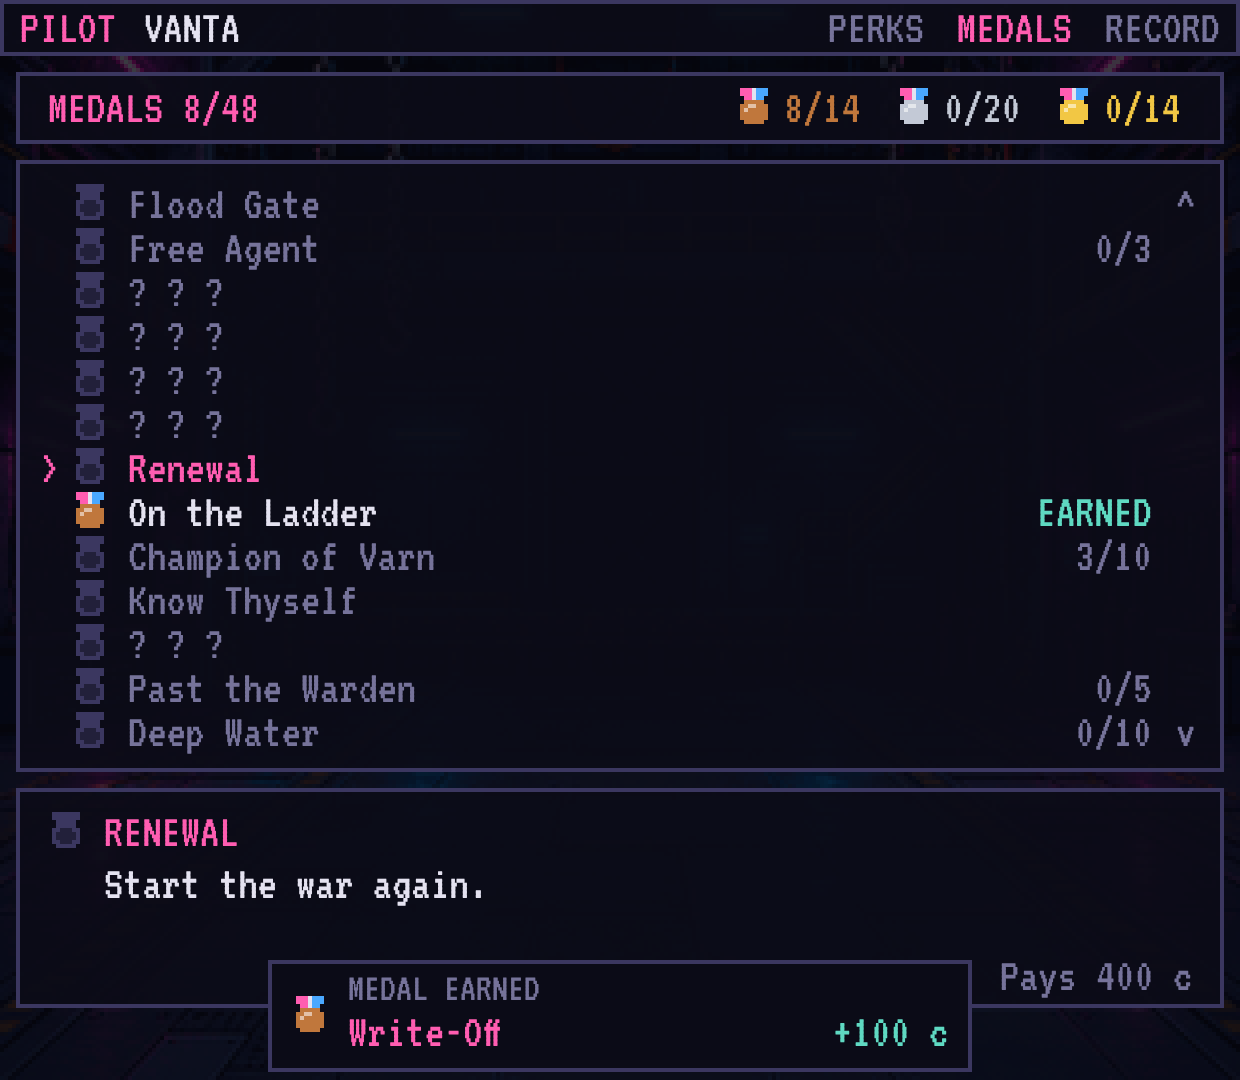
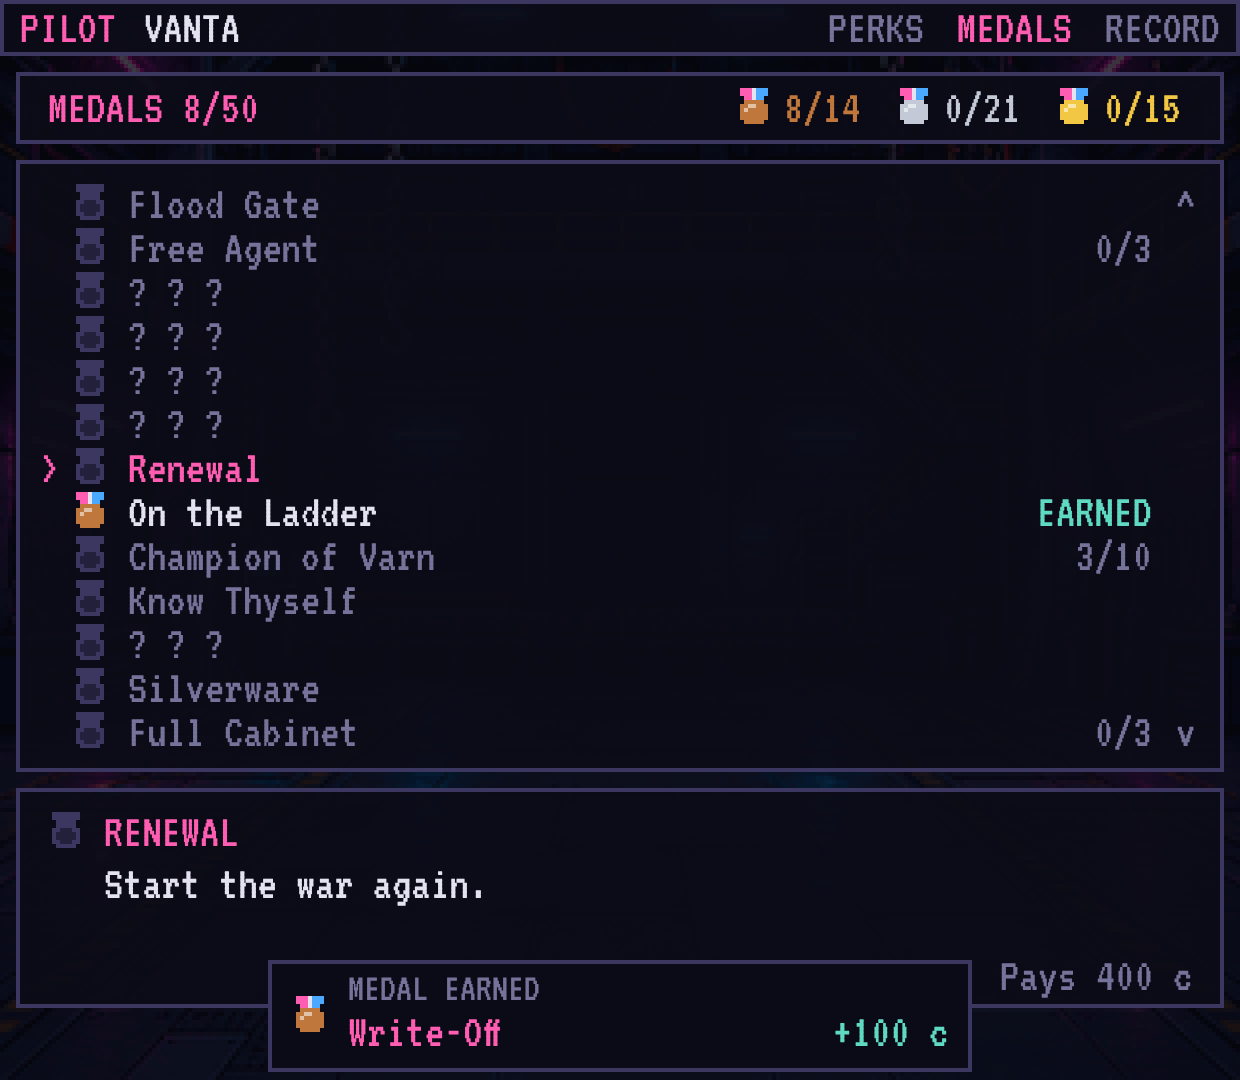
Arena cups: three of the ladder back to back, three cups, a purse each and two medals
Claude-Session: https://claude.ai/code/session_01D72L5UjxxzTBcVetS4xsP3

diff --git a/tests/ui/cups.test.ts b/tests/ui/cups.test.ts
@@ -1,0 +1,92 @@
+import { chooseAutoPlayerAction, runBattle } from '../../src/core/ai';
+import { CUPS, cupMission, cupOpen, cupPurse, cupWon, recordCupWin } from '../../src/core/arena';
+import { isValidState } from '../../src/core/game';
+import { playMission } from '../../src/core/mission';
+import { takesWingman } from '../../src/core/wingman';
+import { ALL_ENEMIES, ARENA } from '../../src/content/arena';
+import { CATALOG } from '../../src/content/parts';
+import { REFERENCE_BUILDS } from '../../src/content/referenceBuilds';
+import { STRINGS } from '../../src/content/strings';
+import { battleTrack } from '../../src/ui/soundtrack';
+import { done, finishMission, fresh, ids, inHub, press, savedGame, select, snap, strong } from '../helpers/app';
+
+const A = STRINGS.arena;
+const text = (id: string) => ({ client: A.client, win: A.win, title: A.cups.names[id], briefing: A.cups.briefing });
+const at = (arenaRank: number) => ({ ...strong(done('intro-1', 'intro-2')), arenaRank });
+const [bronze, silver, gold] = CUPS;
+
+describe('the arena cups', () => {
+  test('are three, each three of the ladder back to back, each opening to a pilot who has beaten its three', () => {
+    expect(CUPS.map((c) => c.id)).toEqual(['cup-bronze', 'cup-silver', 'cup-gold']);
+    expect(CUPS.map((c) => c.ranks)).toEqual([[1, 2, 3], [5, 6, 7], [8, 9, 10]]);
+    expect([2, 3, 6, 7, 9, 10].map((rank) => CUPS.map((c) => cupOpen(at(rank), c)))).toEqual([
+      [false, false, false], [true, false, false], [true, false, false], [true, true, false], [true, true, false], [true, true, true],
+    ]);
+    for (const cup of CUPS) {
+      const m = cupMission(at(10), cup, ARENA, text(cup.id));
+      expect(m.battles.map((b) => b.enemies)).toEqual(cup.ranks.map((rank) => [`arena-${rank}`]));
+      expect(m.battles.every((b) => b.background === 'bg-arena')).toBe(true);
+      const mean = cup.ranks.reduce((sum, rank) => sum + ARENA[rank - 1].scale, 0) / 3;
+      expect(m.scale).toBeCloseTo(mean * cup.tune, 2);
+      expect(takesWingman(m)).toBe(false);
+      expect(battleTrack(m, 0, ALL_ENEMIES)).toBe('arena');
+      for (const line of m.briefing) expect(line.length).toBeLessThanOrEqual(2 * 59);
+    }
+  });
+
+  test('pay the purse once and a quarter after, and are kept on record in a save', () => {
+    const before = at(3);
+    expect(cupPurse(before, bronze)).toBe(2500);
+    const won = recordCupWin(before, 'cup-bronze');
+    expect(cupWon(won, bronze)).toBe(true);
+    expect(cupPurse(won, bronze)).toBe(625);
+    expect(recordCupWin(won, 'cup-bronze')).toBe(won);
+    expect(isValidState(won, CATALOG)).toBe(true);
+    expect(isValidState({ ...won, cups: [5] }, CATALOG)).toBe(false);
+    expect(cupWon(fresh(), gold)).toBe(false);
+  });
+
+  test.each([['cup-bronze', 'tier2'], ['cup-silver', 'tier4'], ['cup-gold', 'tier6']])('%s can be won with %s, and not as a matter of course', (id, build) => {
+    const cup = CUPS.find((c) => c.id === id)!;
+    const m = cupMission(at(10), cup, ARENA, text(id));
+    let wins = 0;
+    for (let seed = 1; seed <= 12; seed++) {
+      const end = playMission(REFERENCE_BUILDS[build], m, ALL_ENEMIES, CATALOG, seed * 7919, (s) => runBattle(s, CATALOG, chooseAutoPlayerAction), { enemyScale: m.scale });
+      if (end.outcome === 'victory') wins += 1;
+    }
+    expect(wins / 12).toBeGreaterThanOrEqual(0.25);
+  });
+});
+
+describe('a cup in the arena', () => {
+  test('is listed under the mirror match, locked until its three are beaten', () => {
+    const { app } = inHub(at(3));
+    select(app, 'arena');
+    expect(ids(app).slice(-3)).toEqual(['cup-bronze', 'cup-silver', 'cup-gold']);
+    expect(snap(app).menu.items.slice(-3).map((i) => [i.enabled, i.note])).toEqual([[true, '2500'], [false, A.locked], [false, A.locked]]);
+    select(app, 'cup-bronze');
+    expect(snap(app)).toMatchObject({ screen: 'briefing', briefing: { mission: 'cup-bronze', reward: 2500 } });
+    expect(ids(app)).toEqual(['accept', 'back']);
+    press(app, 'cancel');
+    expect(snap(app).screen).toBe('arena');
+    expect(snap(app).menu.items[snap(app).menu.cursor].id).toBe('cup-bronze');
+  });
+
+  test('is three battles; winning it pays the purse, puts it on record and earns the medal; the rank on the ladder does not move', () => {
+    const { app, store } = inHub(at(3));
+    const credits = snap(app).credits;
+    select(app, 'arena');
+    select(app, 'cup-bronze');
+    select(app, 'accept');
+    expect(snap(app).battle).toMatchObject({ index: 0, of: 3, enemies: ['arena-1'] });
+    finishMission(app);
+    expect(snap(app).settlement).toMatchObject({ won: true, reward: 2500 });
+    expect(savedGame(store)).toMatchObject({ cups: ['cup-bronze'], arenaRank: 3 });
+    expect(savedGame(store).medals).toContain('cup');
+    expect(savedGame(store).credits).toBeGreaterThan(credits);
+    press(app, 'confirm');
+    app.go('arena');
+    expect((snap(app).arena as unknown as { cups: string[] }).cups).toEqual(['cup-bronze']);
+    expect(snap(app).menu.items.find((i) => i.id === 'cup-bronze')!.note).toBe('625');
+  });
+});

diff --git a/src/ui/arenaScreen.ts b/src/ui/arenaScreen.ts
@@ -1,4 +1,4 @@
-import { ARENA_RANKS, CHAMPION_RANK, arenaPurse, checkChallenge, mirrorEnemy, mirrorOpen, mirrorPurse, shownRanks } from '../core/arena';
+import { ARENA_RANKS, CHAMPION_RANK, CUPS, arenaPurse, checkChallenge, cupOpen, cupPurse, cupWon, mirrorEnemy, mirrorOpen, mirrorPurse, shownRanks } from '../core/arena';
 import { ARENA, ARENA_ENEMIES } from '../content/arena';
 import { STRINGS } from '../content/strings';
 import type { InputAction } from '../platform/input';
@@ -36,6 +36,8 @@ export class ArenaScreen implements Screen {
         note: String(arenaPurse(game, o)),
       })),
       { id: MIRROR, label: A.mirror.title, enabled: mirrorOpen(game), note: mirrorOpen(game) ? String(mirrorPurse(game)) : A.locked },
+      // The three cups, under everything else: each opens to a pilot who has beaten its three on the ladder.
+      ...CUPS.map((cup) => ({ id: cup.id, label: A.cups.names[cup.id], enabled: cupOpen(game, cup), note: cupOpen(game, cup) ? String(cupPurse(game, cup)) : A.locked })),
     ];
     // The cursor starts on the next opponent, or on the last one once there is nobody left to beat.
     const index = items.findIndex((item) => item.id === at);
@@ -44,7 +46,12 @@ export class ArenaScreen implements Screen {
 
   /** The opponent under the cursor; none while it is on the mirror match. */
   private get opponent() {
-    return this.list.selected?.id === MIRROR ? undefined : ARENA[this.list.cursor];
+    return this.list.selected?.id.startsWith('rank-') ? ARENA[this.list.cursor] : undefined;
+  }
+
+  /** The cup under the cursor, if it is on one. */
+  private get cup() {
+    return CUPS.find((cup) => cup.id === this.list.selected?.id);
   }
 
   update(dtMs: number): void {
@@ -57,12 +64,13 @@ export class ArenaScreen implements Screen {
     else if (action === 'cancel') this.app.go('hub');
     else if (action === 'confirm' && this.list.selected?.enabled) {
       if (this.opponent) this.app.openArenaBriefing(this.opponent.rank);
+      else if (this.cup) this.app.openCupBriefing(this.cup.id);
       else this.app.openMirrorBriefing();
     }
   }
 
   view(): ScreenView {
-    return { menu: { items: this.list.items, cursor: this.list.cursor }, arena: { rank: this.app.game!.arenaRank, of: this.shown } };
+    return { menu: { items: this.list.items, cursor: this.list.cursor }, arena: { rank: this.app.game!.arenaRank, of: this.shown, cups: this.app.game!.cups ?? [] } };
   }
 
   draw(ctx: CanvasRenderingContext2D): void {
@@ -75,7 +83,9 @@ export class ArenaScreen implements Screen {
 
     // The selected opponent's mech, facing left towards the list. For the mirror match, the pilot's own in the house paint.
     const o = this.opponent;
-    const shown = o ? ARENA_ENEMIES[o.enemy] : mirrorEnemy(game, A.mirror.name);
+    const cup = this.cup;
+    // For a cup, the last of its three: the one the purse has to be taken from.
+    const shown = o ? ARENA_ENEMIES[o.enemy] : cup ? ARENA_ENEMIES[ARENA[cup.ranks[2] - 1].enemy] : mirrorEnemy(game, A.mirror.name);
     ctx.save();
     ctx.translate(LOGICAL_W + 6, 18);
     ctx.scale(-1, 1);
@@ -91,13 +101,16 @@ export class ArenaScreen implements Screen {
     drawList(ctx, this.list, 10, 32, 134, ROWS);
 
     drawPanel(ctx, 4, 184, LOGICAL_W - 8, 82);
-    const state = !o ? (this.list.selected?.enabled ? A.next : A.locked)
+    const state = cup ? (!cupOpen(game, cup) ? A.locked : cupWon(game, cup) ? A.cups.won : A.cups.open)
+      : !o ? (this.list.selected?.enabled ? A.next : A.locked)
       : o.rank <= game.arenaRank ? A.beaten : o.rank === game.arenaRank + 1 ? A.next : A.locked;
-    drawText(ctx, (o ? o.name : A.mirror.title).toUpperCase(), 12, 189, { size: 16, color: COLORS.accent });
+    drawText(ctx, (o ? o.name : cup ? A.cups.names[cup.id] : A.mirror.title).toUpperCase(), 12, 189, { size: 16, color: COLORS.accent });
     drawText(ctx, state, LOGICAL_W - 12, 191, { align: 'right', color: state === A.locked ? COLORS.danger : state === A.next ? COLORS.armor : COLORS.dim });
     // The one at the top of what this pilot can see has a word for whoever has beaten them.
     const last = o && o.rank === game.arenaRank && (o.rank === CHAMPION_RANK || o.rank === ARENA_RANKS);
-    const words = !o ? (this.list.selected?.enabled ? A.mirror.style : A.mirror.locked)
+    const cupNames = cup ? cup.ranks.map((rank) => ARENA[rank - 1].name) : [];
+    const words = cup ? (cupOpen(game, cup) ? A.cups.style(cupNames) : A.cups.locked(cupNames[2]))
+      : !o ? (this.list.selected?.enabled ? A.mirror.style : A.mirror.locked)
       : last ? (o.rank === ARENA_RANKS ? A.apex : A.champion) : o.style;
     wrap(words, charsFor(LOGICAL_W - 28)).slice(0, 3).forEach((row, i) => drawText(ctx, row, 12, 207 + i * LINE));
     drawText(ctx, A.back, LOGICAL_W / 2, 253, { align: 'center', color: COLORS.dim });

diff --git a/src/ui/app.ts b/src/ui/app.ts
@@ -1,5 +1,7 @@
 import { adviceAfter, type Advice } from '../core/advice';
-import { MIRROR_ID, arenaMission, checkChallenge, mirrorEnemy, mirrorMission, mirrorOpen, recordArenaWin, recordMirrorWin } from '../core/arena';
+import {
+  CUPS, MIRROR_ID, arenaMission, checkChallenge, cupMission, cupOpen, isCup, mirrorEnemy, mirrorMission, mirrorOpen, recordArenaWin, recordCupWin, recordMirrorWin,
+} from '../core/arena';
 import { generateBoard } from '../core/board';
 import { validatePlayerBuild } from '../core/build';
 import {
@@ -536,6 +538,20 @@ export class App {
     return mirrorMission(game, { client: STRINGS.arena.client, win: STRINGS.arena.win, ...STRINGS.arena.mirror });
   }
 
+  /** A cup, if the office enters this pilot for it. */
+  private cupFight(cupId: string): Mission | undefined {
+    const game = this.game;
+    const cup = CUPS.find((c) => c.id === cupId);
+    if (!game || !cup || !this.sideWorkOpen() || !cupOpen(game, cup)) return undefined;
+    const A = STRINGS.arena;
+    return cupMission(game, cup, ARENA, { client: A.client, win: A.win, title: A.cups.names[cup.id], briefing: A.cups.briefing });
+  }
+
+  openCupBriefing(cupId: string): void {
+    const mission = this.cupFight(cupId);
+    if (mission) this.show('briefing', new BriefingScreen(this, mission), briefingTrack(mission));
+  }
+
   openMirrorBriefing(): void {
     const mission = this.mirrorFight();
     if (mission) this.show('briefing', new BriefingScreen(this, mission), briefingTrack(mission));
@@ -657,6 +673,7 @@ export class App {
   closeBriefing(mission: Mission): void {
     if (isDrill(mission)) this.show('training', new TrainingScreen(this, mission.id));
     else if (mission.id === MIRROR_ID) this.show('arena', new ArenaScreen(this, MIRROR));
+    else if (isCup(mission)) this.show('arena', new ArenaScreen(this, mission.id));
     else if (mission.arenaRank !== undefined) this.show('arena', new ArenaScreen(this, `rank-${mission.arenaRank}`));
     else this.openHub(mission.replay ? 'archive' : 'contracts', mission.id);
   }
@@ -685,6 +702,7 @@ export class App {
     if (missionId.startsWith('drill-')) return this.drillFight(missionId);
     if (missionId.startsWith('gauntlet-')) return this.gauntletFloor()?.id === missionId ? this.gauntletFloor() : undefined;
     if (missionId === MIRROR_ID) return this.mirrorFight();
+    if (missionId.startsWith('cup-')) return this.cupFight(missionId);
     const arena = /^arena-(\d+)$/.exec(missionId);
     return arena ? this.arenaFight(Number(arena[1])) : this.missions().find((m) => m.id === missionId);
   }
@@ -762,6 +780,7 @@ export class App {
     if (settlement.won) {
       if (mission.arenaRank !== undefined) next = recordArenaWin(next, mission.arenaRank);
       else if (mission.id === MIRROR_ID) next = recordMirrorWin(next);
+      else if (isCup(mission)) next = recordCupWin(next, mission.id);
       else if (MISSIONS.some((m) => m.id === mission.id)) {
         // Winning a contract again from the archive completes nothing new; its rank can still improve.
         next = completeMission(next, mission.id, MISSIONS);

diff --git a/src/core/arena.ts b/src/core/arena.ts
@@ -84,3 +84,44 @@ export function mirrorMission(state: GameState, text: { client: string; win: str
 export function recordMirrorWin(state: GameState): GameState {
   return { ...state, stats: { ...state.stats, mirrors: state.stats.mirrors + 1 } };
 }
+
+/**
+ * A cup: three opponents of the ladder back to back, with only field service between them. It opens
+ * to a pilot who has beaten all three, pays its purse once and a quarter after, and is kept on record.
+ */
+export interface Cup {
+  /** Begins with `cup-`. */
+  id: string;
+  /** The ranks of the three opponents, in the order they are fought. */
+  ranks: [number, number, number];
+  purse: number;
+  /**
+   * Multiplies the mean strength of its three on the ladder. Measured, not reasoned: three in a row
+   * with only field service between is much harder than three apart, and the more so the higher up.
+   */
+  tune: number;
+}
+export const CUPS: Cup[] = [
+  { id: 'cup-bronze', ranks: [1, 2, 3], purse: 2500, tune: 0.95 },
+  { id: 'cup-silver', ranks: [5, 6, 7], purse: 6000, tune: 0.85 },
+  { id: 'cup-gold', ranks: [8, 9, 10], purse: 12000, tune: 0.6 },
+];
+
+export const isCup = (mission: Mission): boolean => mission.id.startsWith('cup-');
+export const cupOpen = (state: GameState, cup: Cup): boolean => state.arenaRank >= cup.ranks[2];
+export const cupWon = (state: GameState, cup: Cup): boolean => (state.cups ?? []).includes(cup.id);
+export const cupPurse = (state: GameState, cup: Cup): number => (cupWon(state, cup) ? Math.round(cup.purse / 4) : cup.purse);
+
+/** A cup in the shape of a contract of three battles. */
+export function cupMission(state: GameState, cup: Cup, ladder: ArenaOpponent[], text: { client: string; win: string; title: string; briefing: (names: string[]) => string[] }): Mission {
+  const opponents = cup.ranks.map((rank) => ladder[rank - 1]);
+  const scale = Math.round((opponents.reduce((sum, o) => sum + o.scale, 0) / opponents.length) * cup.tune * 100) / 100;
+  return {
+    id: cup.id, phase: 'patrol', title: text.title, client: text.client, briefing: text.briefing(opponents.map((o) => o.name)), debrief: text.win,
+    reward: cupPurse(state, cup), battles: opponents.map((o) => ({ enemies: [o.enemy], background: 'bg-arena' })), scale,
+  };
+}
+
+export function recordCupWin(state: GameState, cupId: string): GameState {
+  return (state.cups ?? []).includes(cupId) ? state : { ...state, cups: [...(state.cups ?? []), cupId] };
+}

diff --git a/src/content/strings.ts b/src/content/strings.ts
@@ -171,6 +171,18 @@ export const STRINGS = {
     next: 'NEXT OPPONENT', beaten: 'BEATEN', locked: 'LOCKED', champion: 'You are the champion of Varn.',
     yourRank: (n: number, of: number) => (n === 0 ? 'UNRANKED' : `YOUR RANK ${n}/${of}`), fight: 'ARENA FIGHT', back: 'A: challenge   B: back',
     apex: 'There is nobody left to beat. The back room drinks to you.',
+    // The cups: three of the ladder back to back.
+    cups: {
+      tag: 'ARENA CUP: three fights, no rest',
+      names: { 'cup-bronze': 'Bronze Cup', 'cup-silver': 'Silver Cup', 'cup-gold': 'Gold Cup' } as Record<string, string>,
+      briefing: (names: string[]) => [
+        `Three fights back to back: ${names[0]}, then ${names[1]}, then ${names[2]}.`,
+        'Field service between them and nothing more. What you lose in the first you miss in the third.',
+      ],
+      style: (names: string[]) => `${names.join(', ')}: one after the other, with only field service between. The purse is paid for all three or not at all.`,
+      locked: (name: string) => `The office enters pilots who have beaten ${name} on the ladder.`,
+      won: 'WON', open: 'OPEN',
+    },
     mirror: {
       title: 'Mirror Match', name: 'Echo', taunt: 'After you.',
       style: 'The house pilot flies a copy of your mech as it stands today, part for part, tuned a little hotter. Whatever you bring, it brings.',

diff --git a/src/content/parts.ts b/src/content/parts.ts
@@ -252,9 +252,9 @@ const ENEMY_PARTS: Part[] = [
   // Arc pylon: cannot move, and every hit heats what it hits.
   frame('core-pylon', 'Pylon Column', 'core', 170, r(0.2, 0.45, 0.15), 300, 0, 0, undefined),
   weapon('wpn-pylon-arc', 'Arc Discharge', 'shoulder', 'energy', 26, 84, 110, 20, null, 0, 150, 0, undefined, 'thermal', 16),
-  // Longshot: a rail on rotors. It charges for a turn, then shoots through armour.
-  frame('core-longshot', 'Longshot Spine', 'core', 85, r(0.15, 0.15, 0.15), 80, 0, 0, undefined),
-  weapon('wpn-longshot-rail', 'Longshot Rail', 'shoulder', 'kinetic', 70, 90, 90, 20, null, 0, 60, 0, undefined, 'pierce', undefined, { charge: true }),
+  // Railhawk: a rail on rotors. It charges for a turn, then shoots through armour.
+  frame('core-longshot', 'Railhawk Spine', 'core', 85, r(0.15, 0.15, 0.15), 80, 0, 0, undefined),
+  weapon('wpn-longshot-rail', 'Railhawk Rail', 'shoulder', 'kinetic', 70, 90, 90, 20, null, 0, 60, 0, undefined, 'pierce', undefined, { charge: true }),
   // The Scrap King: a crab of welded wrecks. It closes in with the pincer and sprays flak on the way.
   frame('core-king', 'King Shell', 'core', 420, r(0.35, 0.25, 0.3), 1000, 0, 0, undefined),
   frame('legs-king', 'Six Legs', 'legs', 240, r(0.3, 0.2, 0.25), 600, 0, 0, undefined, { capacity: 6000, mobility: 14, legType: 'quad' }),

diff --git a/src/content/medals.ts b/src/content/medals.ts
@@ -59,6 +59,8 @@ const EARNED: Medal[] = [
   { id: 'champion', name: 'Champion of Varn', text: 'Take first place in the arena.', tier: 3, progress: count(CHAMPION_RANK, (g) => g.arenaRank) },
   { id: 'mirror', name: 'Know Thyself', text: 'Win a mirror match against your own build.', tier: 2, progress: count(1, (g) => g.stats.mirrors) },
   { id: 'apex', name: 'Last One Standing', text: 'Beat everyone in the back room of the arena.', tier: 3, secret: true, progress: count(ARENA_RANKS, (g) => g.arenaRank) },
+  { id: 'cup', name: 'Silverware', text: 'Win an arena cup.', tier: 2, progress: count(1, (g) => (g.cups ?? []).length) },
+  { id: 'cups', name: 'Full Cabinet', text: 'Win all three arena cups.', tier: 3, progress: count(3, (g) => (g.cups ?? []).length) },
   // The Gauntlet.
   { id: 'gauntlet-5', name: 'Past the Warden', text: 'Clear 5 floors of the Gauntlet in one run.', tier: 1, progress: count(5, (g) => g.gauntletBest ?? 0) },
   { id: 'gauntlet-10', name: 'Deep Water', text: 'Clear 10 floors of the Gauntlet in one run.', tier: 2, progress: count(10, (g) => g.gauntletBest ?? 0) },

diff --git a/src/core/game.ts b/src/core/game.ts
@@ -45,6 +45,8 @@ export interface GameState {
   ranks: Record<string, Rank>;
   /** Ids of the scenes shown in this cycle. */
   scenes: string[];
+  /** Ids of the arena cups won. */
+  cups?: string[];
   /** The run of the Gauntlet under way, if there is one. */
   gauntlet?: Run | null;
   /** The most floors of the Gauntlet cleared in one run. */
@@ -276,6 +278,7 @@ export function isValidState(value: unknown, catalog: Catalog): value is GameSta
   const { inventory, build, paint, loadouts, ranks, scenes } = value;
   if (!isRecord(inventory) || !isRecord(build)) return false;
   if (!isRecord(ranks) || !Object.values(ranks).every((rank) => RANKS.includes(rank as Rank)) || !isTextList(scenes)) return false;
+  if (value.cups !== undefined && !(isTextList(value.cups) && value.cups.length <= 16)) return false;
   const { gauntlet, gauntletBest } = value;
   // What the run holds is checked where a game is loaded; here it only has to be a thing or nothing.
   if (gauntlet !== undefined && gauntlet !== null && !isRecord(gauntlet)) return false;

diff --git a/tests/ui/app.test.ts b/tests/ui/app.test.ts
@@ -769,8 +769,8 @@ describe('the arena', () => {
     expect(snap(app).screen).toBe('arena');
     const items = snap(app).menu.items;
     // The ladder, and under it the mirror match, which opens at the third rank.
-    expect(items.map((i) => i.id)).toEqual(['rank-1', 'rank-2', 'rank-3', 'rank-4', 'rank-5', 'rank-6', 'rank-7', 'rank-8', 'rank-9', 'rank-10', 'mirror']);
-    expect(items.map((i) => i.enabled)).toEqual([true, true, true, false, false, false, false, false, false, false, false]);
+    expect(items.map((i) => i.id)).toEqual(['rank-1', 'rank-2', 'rank-3', 'rank-4', 'rank-5', 'rank-6', 'rank-7', 'rank-8', 'rank-9', 'rank-10', 'mirror', 'cup-bronze', 'cup-silver', 'cup-gold']);
+    expect(items.map((i) => i.enabled)).toEqual([true, true, true, false, false, false, false, false, false, false, false, false, false, false]);
     expect(items.slice(0, 3).map((i) => i.note)).toEqual(['200', '300', '1600']);
     expect(snap(app).menu.cursor).toBe(2);
     press(app, 'down', 'confirm');

diff --git a/tests/ui/app6.test.ts b/tests/ui/app6.test.ts
@@ -138,12 +138,12 @@ describe('the arena, past the ladder', () => {
   test('the back room is listed for the champion only, and its first pilot can then be challenged', () => {
     const climbing = pit({ arenaRank: 9 }).app;
     select(climbing, 'arena');
-    expect(ids(climbing)).toHaveLength(11);
+    expect(ids(climbing)).toHaveLength(14);
     expect(ids(climbing)).not.toContain('rank-11');
 
     const { app } = pit({ arenaRank: 10 });
     select(app, 'arena');
-    expect(ids(app)).toEqual([...Array.from({ length: 15 }, (_, i) => `rank-${i + 1}`), 'mirror']);
+    expect(ids(app)).toEqual([...Array.from({ length: 15 }, (_, i) => `rank-${i + 1}`), 'mirror', 'cup-bronze', 'cup-silver', 'cup-gold']);
     expect(snap(app).menu.cursor).toBe(10);
     expect(snap(app).menu.items[10]).toMatchObject({ id: 'rank-11', label: '11. Longshot', enabled: true, note: '9000' });
     expect(snap(app).menu.items[11]).toMatchObject({ id: 'rank-12', enabled: false });

diff --git a/e2e/meta.spec.ts b/e2e/meta.spec.ts
@@ -122,9 +122,17 @@ test('the arena past the ladder: the back room for a champion, and a mirror matc
   await choose(page, 'arena');
   await waitForScreen(page, 'arena');
   const list = await snap(page);
-  expect(list.menu.items).toHaveLength(16);
+  // Fifteen on the ladder, the mirror match, and the three cups.
+  expect(list.menu.items).toHaveLength(19);
   expect(list.menu.items[list.menu.cursor].id).toBe('rank-11');
   await page.screenshot({ path: shot('arena-back-room') });
+  // The gold cup is open to a champion: three fights back to back.
+  await choose(page, 'cup-gold');
+  await waitForScreen(page, 'briefing');
+  await page.screenshot({ path: shot('arena-cup-briefing') });
+  await press(page, 'Escape');
+  await waitForScreen(page, 'arena');
+  await page.screenshot({ path: shot('arena-cup') });
   await choose(page, 'mirror');
   await waitForScreen(page, 'briefing');
   await page.screenshot({ path: shot('arena-mirror-briefing') });

diff --git a/src/content/sidework.ts b/src/content/sidework.ts
@@ -143,8 +143,8 @@ export const GUILD_JOBS: Mission[] = [
   {
     id: 'guild-2', phase: 'side', series: 'guild', when: 'rival-1', title: 'Live Wires', ...GUILD, reward: 2400, scale: 1.25,
     briefing: [
-      'Lumen has planted arc pylons along our lane and hung a Longshot over them. Every hit from a pylon heats you up.',
-      'The Longshot charges for a turn before it fires through your armour. A hunter drone runs errands for them. Clear the lane.',
+      'Lumen has planted arc pylons along our lane and hung a Railhawk over them. Every hit from a pylon heats you up.',
+      'The Railhawk charges for a turn before it fires through your armour. A hunter drone runs errands for them. Clear the lane.',
     ],
     debrief: 'The lane is dark again, which is how the Night Market likes it.',
     battles: [battle(['arc-pylon', 'longshot', 'hunter-drone'], 'bg-neon-district'), battle(['arc-pylon', 'breacher'], 'bg-neon-district')],
